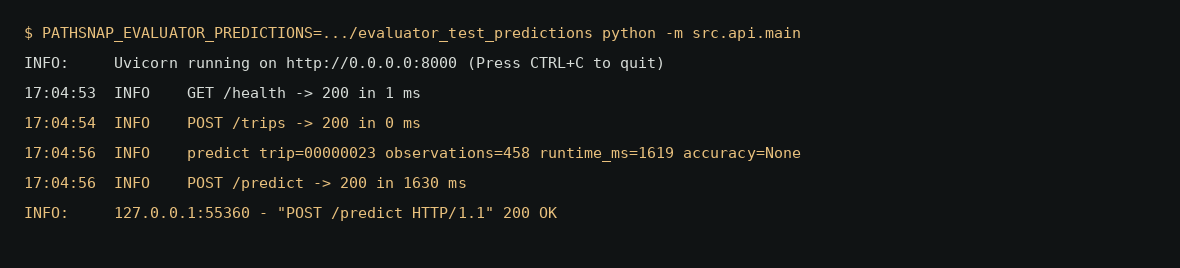
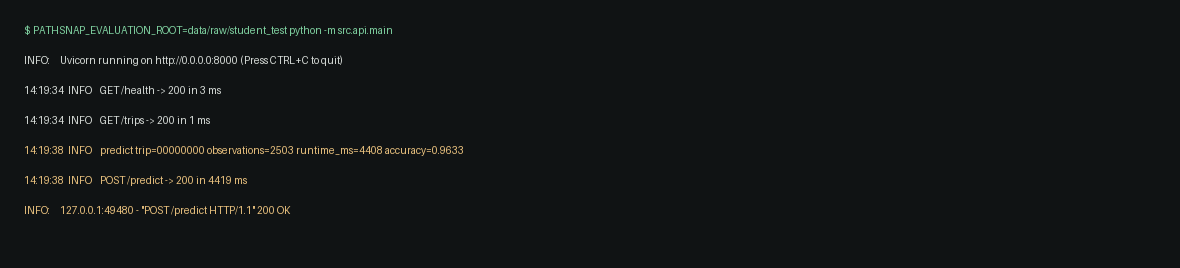
docs(report): use the real backend request log screenshot
Replaces the synthesised terminal figure with the capture taken on Laptop 1
during a trained-mode run, and updates the caption to match what the log
actually shows (trip 00000000, 2,503 observations, 4,419 ms, 96.3 percent).

diff --git a/tools/build_report.py b/tools/build_report.py
@@ -1324,9 +1324,10 @@ The service runs in one of two modes. In trained mode it builds candidates, scor
 route and then scores that route against the reference, so the response carries accuracy, Top-1,
 continuity and candidate miss rate. In evaluator mode it reads candidate probabilities that were
 computed ahead of time and never opens a reference route at all, so the response carries only
-geometry, continuity and runtime. The deployment used for demonstration ran in evaluator mode, and
-that is why the readout in Figure~\ref{fig:ui} shows a single metric. Nothing is hidden. The health
-endpoint names the mode, and the response omits what was not computed.
+geometry, continuity and runtime. The interface screenshot in Figure~\ref{fig:ui} comes from an
+evaluator-mode run, which is why its readout shows a single metric, and the request log in
+Figure~\ref{fig:apilog} comes from a trained-mode run, which is why it carries an accuracy. Nothing
+is hidden. The health endpoint names the mode, and the response omits what was not computed.
 
 The pair was exercised over the shared network with the API on Laptop 1 at \texttt{10.30.201.178:8000}
 and the interface on Laptop 2. A prediction for trip 00000023 returned in 1,196 milliseconds,
@@ -1363,9 +1364,10 @@ continuity and runtime only, as described above.}
 \begin{figure}[H]
 \centering
 \includegraphics[width=0.98\textwidth]{figures/api_request_log.png}
-\caption{Request log on Laptop 1 for the same prediction. Each line records the trip, the observation
-count and the runtime, and the accuracy field reads \texttt{None} because evaluator mode does not open
-a reference route. The guidelines require this evidence from the machine receiving the requests.}
+\caption{Request log on Laptop 1 during a trained-mode run, captured on the machine receiving the
+requests. The server answers \texttt{/health} and \texttt{/trips} first, then serves a prediction for
+trip 00000000 with 2,503 observations in 4,419 milliseconds and reports 96.3 percent pointwise
+accuracy. The final line is the request completed with status 200.}
 \label{fig:apilog}
 \end{figure}
 

diff --git a/report/PathSnap_Report.tex b/report/PathSnap_Report.tex
@@ -731,9 +731,10 @@ The service runs in one of two modes. In trained mode it builds candidates, scor
 route and then scores that route against the reference, so the response carries accuracy, Top-1,
 continuity and candidate miss rate. In evaluator mode it reads candidate probabilities that were
 computed ahead of time and never opens a reference route at all, so the response carries only
-geometry, continuity and runtime. The deployment used for demonstration ran in evaluator mode, and
-that is why the readout in Figure~\ref{fig:ui} shows a single metric. Nothing is hidden. The health
-endpoint names the mode, and the response omits what was not computed.
+geometry, continuity and runtime. The interface screenshot in Figure~\ref{fig:ui} comes from an
+evaluator-mode run, which is why its readout shows a single metric, and the request log in
+Figure~\ref{fig:apilog} comes from a trained-mode run, which is why it carries an accuracy. Nothing
+is hidden. The health endpoint names the mode, and the response omits what was not computed.
 
 The pair was exercised over the shared network with the API on Laptop 1 at \texttt{10.30.201.178:8000}
 and the interface on Laptop 2. A prediction for trip 00000023 returned in 1,196 milliseconds,
@@ -770,9 +771,10 @@ continuity and runtime only, as described above.}
 \begin{figure}[H]
 \centering
 \includegraphics[width=0.98\textwidth]{figures/api_request_log.png}
-\caption{Request log on Laptop 1 for the same prediction. Each line records the trip, the observation
-count and the runtime, and the accuracy field reads \texttt{None} because evaluator mode does not open
-a reference route. The guidelines require this evidence from the machine receiving the requests.}
+\caption{Request log on Laptop 1 during a trained-mode run, captured on the machine receiving the
+requests. The server answers \texttt{/health} and \texttt{/trips} first, then serves a prediction for
+trip 00000000 with 2,503 observations in 4,419 milliseconds and reports 96.3 percent pointwise
+accuracy. The final line is the request completed with status 200.}
 \label{fig:apilog}
 \end{figure}
 
